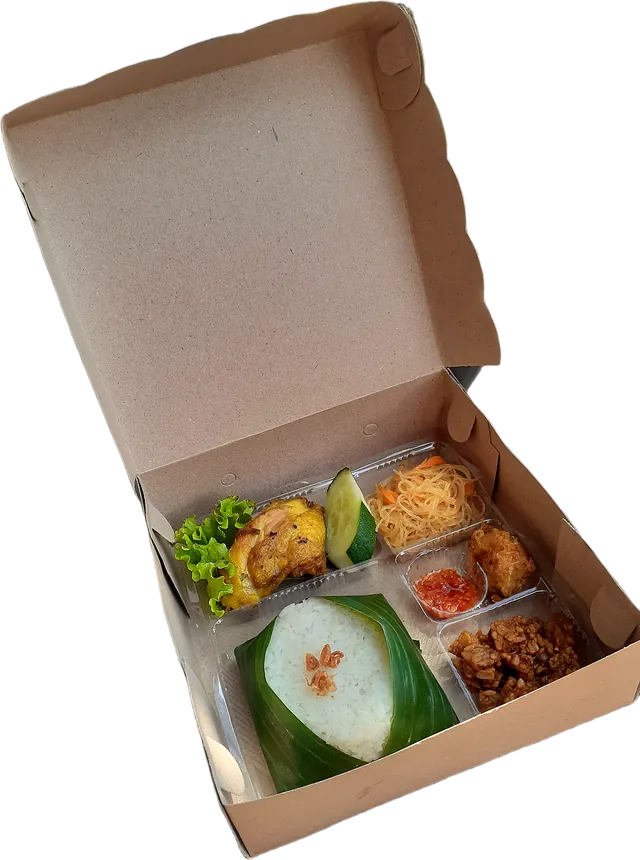
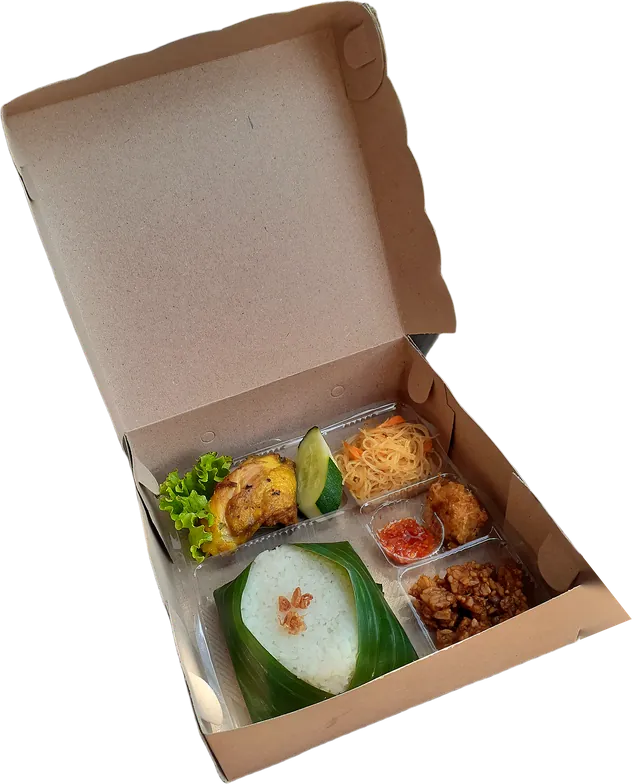
Hero V3 revisi: kotak besar di tengah, stiker dihapus, teks ditata ulang
- Kotak kraft 580px di tengah, tepi depan tepat +24°, sudut foto yang terpotong direkonstruksi
- Rice bowl diperbesar (400px), tumpeng & mangkuk dipertajam
- Teks: kolom kiri (Dapoer, subjudul, tombol) dan Uni kanan bawah, sejajar tepi header
- Foto dihitung supaya tidak menyentuh tulisan di semua ukuran layar

Claude-Session: https://claude.ai/code/session_01HoecZhyrK6N3RbhsKikyQv

diff --git a/src/index.css b/src/index.css
@@ -288,48 +288,36 @@
     --wrap-l: max(var(--gut), (100cqw - 1080px) / 2);
   }
   /*
-   * Tata letak acak ala referensi (frame desain 1440×900, posisi dihitung supaya
-   * foto tidak menabrak tulisan):
-   * - "Dapoer" kiri atas; stiker + "Uni" kanan; subjudul + tombol kanan bawah.
-   * - Kotak kraft di tengah (miring), tumpeng besar di kiri bawah, mangkuk kecil di kanan atas.
-   * - Tepi foto tumpeng yang terpotong (kiri & bawah) sengaja berada di luar layar.
+   * Komposisi V3 revisi (frame desain 1440×900, angka dari mockup yang diukur per piksel):
+   * - Kelompok atas, rata kiri dengan logo: "Dapoer", subjudul, tombol.
+   * - Kelompok bawah, menempel ke dasar hero: kotak kraft besar di tengah (tepi depan tepat +24°),
+   *   tumpeng di kiri bawah (kerucut tegak, potongan foto di luar layar), rice bowl di kanan,
+   *   dan "Uni" rata kanan dengan tombol Chat WA di header.
+   * Kalau hero lebih tinggi dari frame, ruang lebih jatuh di antara kedua kelompok.
    */
   .hero__item { position: absolute; will-change: transform; }
   .hero__item img { display: block; width: 100%; height: auto; }
-  .hero__item--tumpeng { z-index: 1; width: calc(520 * var(--px)); left: calc(-60 * var(--px)); bottom: calc(-52 * var(--px)); }
-  .hero__item--tumpeng img { filter: drop-shadow(0 24px 30px rgba(0, 0, 0, 0.5)); }
-  .hero__item--box { z-index: 2; width: calc(380 * var(--px)); left: calc(50% - 70 * var(--px)); top: calc(50% + 150 * var(--px)); }
-  .hero__item--box img { translate: -50% -50%; rotate: -8deg; filter: drop-shadow(0 40px 40px rgba(0, 0, 0, 0.55)); }
-  .hero__item--bowl { z-index: 1; width: calc(230 * var(--px)); right: calc(-40 * var(--px)); top: calc(50% - 345 * var(--px)); }
-  .hero__item--bowl img { rotate: 12deg; filter: drop-shadow(0 26px 24px rgba(0, 0, 0, 0.5)); }
+  .hero__item--tumpeng { z-index: 1; width: calc(540 * var(--px)); left: calc(50% - 785.6 * var(--px)); bottom: calc(-94.3 * var(--px)); }
+  .hero__item--tumpeng img { rotate: 6.965deg; filter: drop-shadow(0 calc(19 * var(--px)) calc(27 * var(--px)) rgba(0, 0, 0, 0.5)); }
+  .hero__item--box { z-index: 2; width: calc(580 * var(--px)); left: calc(50% - 210 * var(--px)); bottom: calc(6.9 * var(--px)); }
+  .hero__item--box img { rotate: 46.096deg; filter: drop-shadow(0 calc(43 * var(--px)) calc(43 * var(--px)) rgba(0, 0, 0, 0.55)); }
+  .hero__item--bowl { z-index: 1; width: calc(400 * var(--px)); left: calc(50% + 410 * var(--px)); bottom: calc(316.8 * var(--px)); }
+  .hero__item--bowl img { rotate: 24deg; filter: drop-shadow(0 calc(28 * var(--px)) calc(26 * var(--px)) rgba(0, 0, 0, 0.5)); }
   .hero__words { position: absolute; inset: 0; z-index: 4; pointer-events: none; }
-  .hero .w { position: absolute; display: block; line-height: 0.86; text-shadow: 0 8px 40px rgba(18, 13, 9, 0.35); }
+  .hero .w { position: absolute; display: block; line-height: 0.86; text-shadow: 0 3px 0 rgba(41, 35, 30, 0.28), 0 10px 44px rgba(18, 13, 9, 0.6); }
+  .hero { --dap-top: max(136px, calc(140 * var(--px))); }
   .w--dapoer {
-    font: 700 calc(206 * var(--px)) / 0.86 var(--font-display);
+    font: 700 calc(190 * var(--px)) / 0.86 var(--font-display);
     letter-spacing: -0.075em;
     left: calc(var(--wrap-l) - 0.04em); /* koreksi lekuk huruf "D" */
-    top: calc(50% - 290 * var(--px));
+    top: var(--dap-top);
   }
   .w--uni {
-    font: italic 600 calc(250 * var(--px)) / 0.86 var(--font-serif);
+    font: italic 600 calc(285 * var(--px)) / 0.86 var(--font-serif);
     color: var(--color-gold);
     letter-spacing: -0.04em;
     right: calc(var(--wrap-l) + 0.064em); /* ujung huruf miring "i" pas di tepi kanan */
-    top: calc(50% - 98 * var(--px));
-  }
-  .w--kota {
-    font: 700 calc(21 * var(--px)) / 1 var(--font-display);
-    letter-spacing: -0.02em;
-    color: var(--color-espresso);
-    background: var(--color-kraft-2);
-    border: 1.5px solid var(--color-espresso);
-    border-radius: 999px;
-    padding: calc(14 * var(--px)) calc(24 * var(--px));
-    right: calc(var(--wrap-l) + 34 * var(--px));
-    top: calc(50% - 144 * var(--px));
-    rotate: -7deg;
-    white-space: nowrap;
-    text-shadow: none;
+    top: calc(100% - 278 * var(--px));
   }
   /* efek masking: kata naik dari balik garis */
   .mask { overflow: hidden; padding: 0 0.14em 0.18em; margin: 0 -0.14em -0.18em; }
@@ -337,20 +325,20 @@
   .hero__foot {
     position: absolute;
     z-index: 5;
-    right: var(--wrap-l);
-    bottom: calc(50% - 386 * var(--px));
-    text-align: right;
+    left: var(--wrap-l);
+    top: calc(var(--dap-top) + 222 * var(--px));
+    text-align: left;
   }
   .hero__foot p {
     font: 600 calc(21 * var(--px)) / 1.35 var(--font-display);
     letter-spacing: -0.02em;
-    margin: 0 0 calc(18 * var(--px));
+    margin: 0 0 calc(16 * var(--px));
     color: var(--color-cream);
-    text-shadow: 0 4px 24px rgba(0, 0, 0, 0.4);
+    text-shadow: 0 4px 24px rgba(0, 0, 0, 0.55);
   }
   .hero__foot p > span { display: block; }
   .hero__foot .sep { display: none; }
-  .hero__btns { display: flex; gap: calc(12 * var(--px)); flex-wrap: wrap; justify-content: flex-end; }
+  .hero__btns { display: flex; gap: calc(12 * var(--px)); flex-wrap: wrap; justify-content: flex-start; }
   /* tombol hero ikut skala komposisi (dengan ukuran minimum agar tetap mudah ditekan) */
   .hero__btns .pill {
     height: max(46px, calc(62 * var(--px)));
@@ -977,18 +965,16 @@
   .hero { height: clamp(560px, 100svh, 1100px); --px: min(100cqw / 390, (100cqh - var(--top-pad)) / 844); }
   .tiles { --t: 170px; --g: 8px; }
   /* HP: mangkuk kecil di kanan atas, kotak tengah-kanan, tumpeng besar di kiri bawah */
-  .hero__item--tumpeng { width: calc(262 * var(--px)); left: calc(-36 * var(--px)); bottom: calc(-26 * var(--px)); }
-  .hero__item--box { width: calc(220 * var(--px)); left: calc(50% + 45 * var(--px)); top: calc(100% - 196 * var(--px)); }
-  .hero__item--box img { rotate: 8deg; }
-  .hero__item--bowl { width: calc(120 * var(--px)); right: calc(-32 * var(--px)); top: calc(-20 * var(--px) + var(--top-pad) * 1.4); }
-  .w--dapoer { font-size: calc(102 * var(--px)); left: 0; right: 0; text-align: center; top: calc(102 * var(--px) + var(--top-pad)); }
-  .w--uni { font-size: calc(128 * var(--px)); left: 0; right: 0; text-align: center; top: calc(176 * var(--px) + var(--top-pad)); padding-left: calc(70 * var(--px)); }
-  .w--kota { font-size: calc(14 * var(--px)); padding: calc(9 * var(--px)) calc(14 * var(--px)); left: auto; right: calc(50% - 177 * var(--px)); top: calc(296 * var(--px) + var(--top-pad)); rotate: -5deg; z-index: 2; }
-  .hero__foot { left: var(--gut); right: var(--gut); bottom: auto; top: calc(350 * var(--px) + var(--top-pad)); text-align: center; }
+  .hero__item--tumpeng { width: calc(300 * var(--px)); left: calc(50% - 262.6 * var(--px)); bottom: calc(-23 * var(--px)); }
+  .hero__item--box { width: calc(290 * var(--px)); left: calc(50% - 125 * var(--px)); bottom: calc(26.4 * var(--px)); }
+  .hero__item--bowl { width: calc(195 * var(--px)); left: calc(50% + 62.5 * var(--px)); bottom: calc(222.3 * var(--px)); }
+  .w--dapoer { font-size: calc(104 * var(--px)); left: calc(20 * var(--px) - 0.04em); top: calc(100 * var(--px) + var(--top-pad)); }
+  .w--uni { font-size: calc(132 * var(--px)); right: calc(20 * var(--px) + 0.064em); top: calc(176 * var(--px) + var(--top-pad)); }
+  .hero__foot { left: calc(20 * var(--px)); right: auto; top: calc(312 * var(--px) + var(--top-pad)); text-align: left; }
   .hero__foot p { font-size: calc(15.5 * var(--px)); margin-bottom: 12px; }
   .hero__foot p > span { display: inline; }
   .hero__foot .sep { display: inline; }
-  .hero__btns { justify-content: center; }
+  .hero__btns { justify-content: flex-start; }
   .hero__btns .pill { height: calc(50 * var(--px)); padding: 0 calc(22 * var(--px)); font-size: calc(18 * var(--px)); }
 }
 /* tablet tegak memakai header desktop (logo bulat): beri ruang di atas */

diff --git a/src/components/Hero.tsx b/src/components/Hero.tsx
@@ -58,11 +58,11 @@ export function Hero() {
 
       <motion.div className="hero__item hero__item--tumpeng" style={parallax ? { y: yTumpeng } : undefined}>
         <motion.img
-          src="/images/hero/tumpeng-900.webp"
-          srcSet="/images/hero/tumpeng-300.webp 300w, /images/hero/tumpeng-480.webp 480w, /images/hero/tumpeng-600.webp 600w, /images/hero/tumpeng-900.webp 900w"
-          sizes="(min-width: 768px) 480px, 330px"
-          width={900}
-          height={714}
+          src="/images/hero/tumpeng-1100.webp"
+          srcSet="/images/hero/tumpeng-320.webp 320w, /images/hero/tumpeng-600.webp 600w, /images/hero/tumpeng-1100.webp 1100w"
+          sizes="(min-width: 768px) 540px, 300px"
+          width={1100}
+          height={872}
           alt="Tumpeng nasi kuning Dapoer Uni dengan mie, ayam, dan hiasan bunga sayur"
           fetchPriority="high"
           {...settle(0.08)}
@@ -71,11 +71,11 @@ export function Hero() {
 
       <motion.div className="hero__item hero__item--box" style={parallax ? { y: yBox } : undefined}>
         <motion.img
-          src="/images/hero/box-1100.webp"
-          srcSet="/images/hero/box-480.webp 480w, /images/hero/box-640.webp 640w, /images/hero/box-1100.webp 1100w"
-          sizes="(min-width: 768px) 400px, 180px"
-          width={1100}
-          height={1478}
+          src="/images/hero/box-1200.webp"
+          srcSet="/images/hero/box-360.webp 360w, /images/hero/box-640.webp 640w, /images/hero/box-1200.webp 1200w"
+          sizes="(min-width: 768px) 580px, 290px"
+          width={1200}
+          height={1469}
           alt="Nasi kotak kraft Dapoer Uni berisi nasi daun pisang, ayam, timun, bihun, sambal, dan kering tempe"
           fetchPriority="high"
           {...settle(0)}
@@ -84,11 +84,11 @@ export function Hero() {
 
       <motion.div className="hero__item hero__item--bowl" style={parallax ? { y: yBowl } : undefined}>
         <motion.img
-          src="/images/hero/bowl-520.webp"
-          srcSet="/images/hero/bowl-300.webp 300w, /images/hero/bowl-520.webp 520w"
-          sizes="(min-width: 768px) 262px, 130px"
-          width={520}
-          height={489}
+          src="/images/hero/bowl-800.webp"
+          srcSet="/images/hero/bowl-240.webp 240w, /images/hero/bowl-420.webp 420w, /images/hero/bowl-800.webp 800w"
+          sizes="(min-width: 768px) 400px, 195px"
+          width={800}
+          height={753}
           alt=""
           aria-hidden="true"
           {...settle(0.16)}
@@ -98,9 +98,6 @@ export function Hero() {
       <div className="hero__words" aria-hidden="true">
         <MaskWord text="Dapoer" className="w--dapoer" index={0} />
         <MaskWord text="Uni" className="w--uni" index={1} />
-        <motion.span className="w w--kota" {...fadeUp(0.5)}>
-          {s.hero.stiker}
-        </motion.span>
       </div>
 
       <motion.div className="hero__foot" {...fadeUp(0.6)}>

diff --git a/index.html b/index.html
@@ -27,17 +27,9 @@
     <link
       rel="preload"
       as="image"
-      href="/images/hero/box-1100.webp"
-      imagesrcset="/images/hero/box-480.webp 480w, /images/hero/box-640.webp 640w, /images/hero/box-1100.webp 1100w"
-      imagesizes="(min-width: 768px) 400px, 180px"
-      fetchpriority="high"
-    />
-    <link
-      rel="preload"
-      as="image"
-      href="/images/hero/tumpeng-600.webp"
-      imagesrcset="/images/hero/tumpeng-300.webp 300w, /images/hero/tumpeng-480.webp 480w, /images/hero/tumpeng-600.webp 600w, /images/hero/tumpeng-900.webp 900w"
-      imagesizes="(min-width: 768px) 480px, 330px"
+      href="/images/hero/box-1200.webp"
+      imagesrcset="/images/hero/box-360.webp 360w, /images/hero/box-640.webp 640w, /images/hero/box-1200.webp 1200w"
+      imagesizes="(min-width: 768px) 580px, 290px"
       fetchpriority="high"
     />
   </head>

diff --git a/src/data/types.ts b/src/data/types.ts
@@ -44,7 +44,7 @@ export interface Settings {
   whatsapp: string; // format internasional tanpa "+" dan spasi
   instagram: string; // tanpa "@"
   tiers: TierInfo[];
-  hero: { subjudul: string; stiker: string };
+  hero: { subjudul: string };
   paket: { judul: string; intro: string };
   menuPage: { judul: string; intro: string };
   nilai: string[];

diff --git a/src/data/settings.ts b/src/data/settings.ts
@@ -43,7 +43,6 @@ export const settings: Settings = {
 
   hero: {
     subjudul: "Katering rumahan halal · min. 10 kotak · order H-3",
-    stiker: "Surabaya · Katering rumahan",
   },
 
   paket: {

diff --git a/CLAUDE.md b/CLAUDE.md
@@ -254,7 +254,7 @@ Aturan performa:
 
 **Beranda (`/`)**
 1. Header: logo bulat, pil Menu · Tentang · Jumat Berkah · Kontak, pil emas "Chat WA". Di HP: satu pil "Menu" yang membuka menu layar penuh.
-2. Hero: tata letak acak ala referensi dengan tiga foto pilihan pemilik di atas meja ubin espresso: nasi kotak kraft di tengah (miring), tumpeng besar di kiri bawah (tepi foto yang terpotong sengaja di luar layar), rice bowl kecil di kanan atas. "Dapoer" di kiri atas; stiker "Surabaya · Katering rumahan" dan "*Uni*" emas di kanan; subjudul 2 baris + tombol "Lihat Menu" & "Chat WA" di kanan bawah. Tepi teks sejajar persis dengan isi header (kiri logo, kanan tombol Chat WA) di semua lebar desktop lewat `--wrap-l`, dan posisi foto dihitung supaya tidak menyentuh tulisan (dicek per piksel). Di HP: teks di tengah atas, mangkuk di kanan atas, kotak tengah-kanan, tumpeng di kiri bawah.
+2. Hero (V3 revisi, pilihan pemilik): kelompok atas rata kiri dengan logo ("Dapoer", subjudul 2 baris, tombol "Lihat Menu" & "Chat WA"); kelompok bawah menempel ke dasar hero: kotak kraft besar 580px di tengah (tepi depan tepat +24°), tumpeng di kiri bawah (kerucut tegak, potongan foto di luar layar), rice bowl 400px di kanan, dan "*Uni*" emas rata kanan dengan tombol Chat WA di header. Tanpa stiker. Angka posisi diambil dari mockup yang diukur per piksel (frame 1440×900 desktop, 390×844 HP); tulisan tidak boleh tersentuh foto (jarak minimal ±37px). Foto kotak memakai versi dengan sudut kanan bawah yang direkonstruksi; tumpeng & rice bowl dipertajam (EDSR).
 3. Paket Nasi Kotak: 4 lingkaran tingkat dengan label "Paket X · Rp...–...", tombol "Lihat semua menu", lalu banner **Paket Custom**.
 4. Tentang Kami: cerita besar + "Rumahan. Halal. Sesuai Budget." + foto melengkung bertag + 3 kartu nilai.
 5. Jumat Berkah (blok gelap): penjelasan + tombol WA khusus. Jangan menulis angka penerima/masjid.
